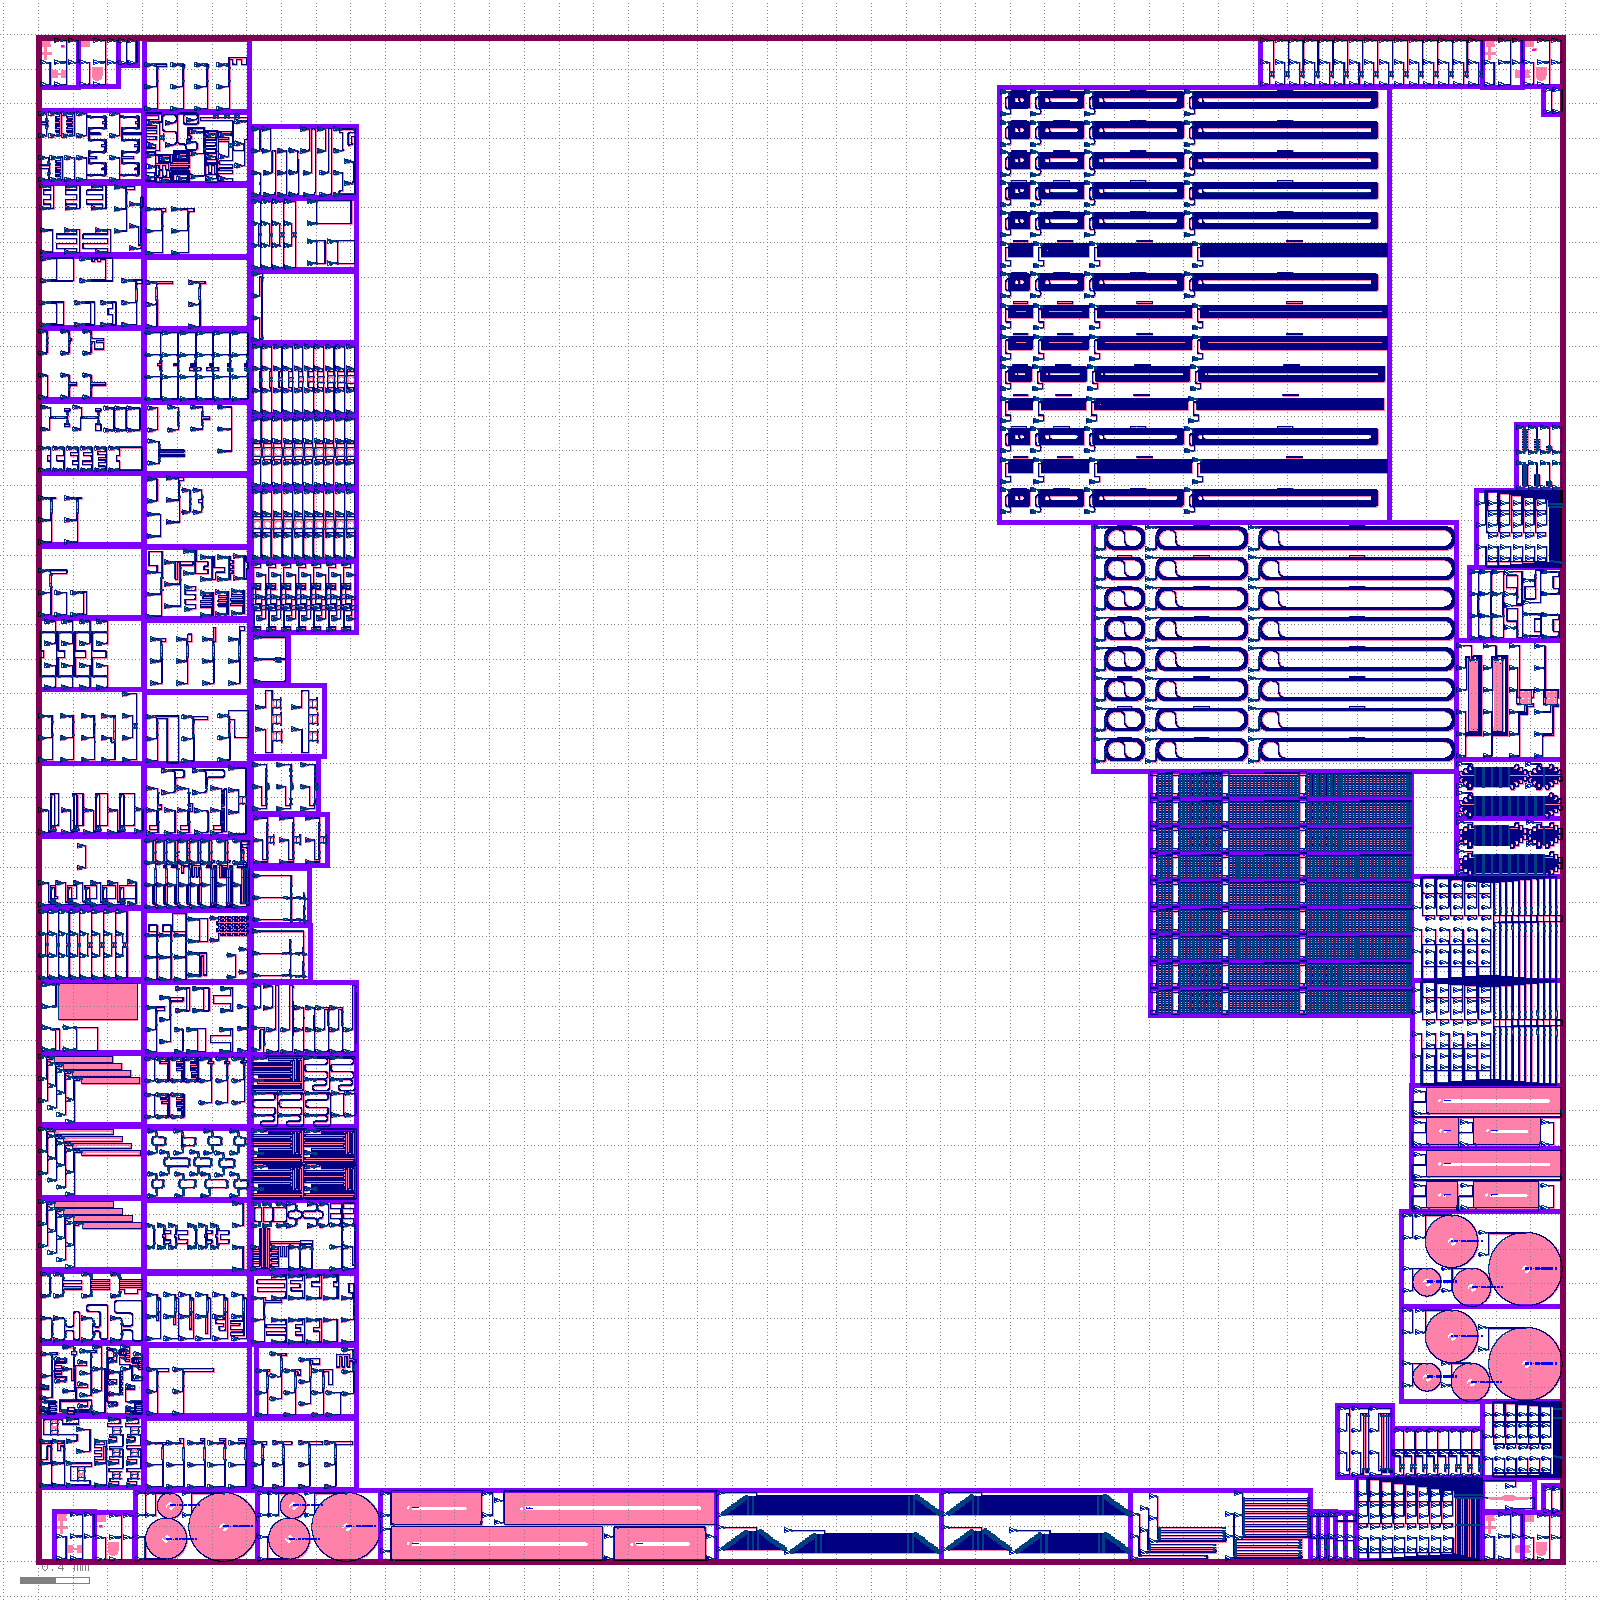
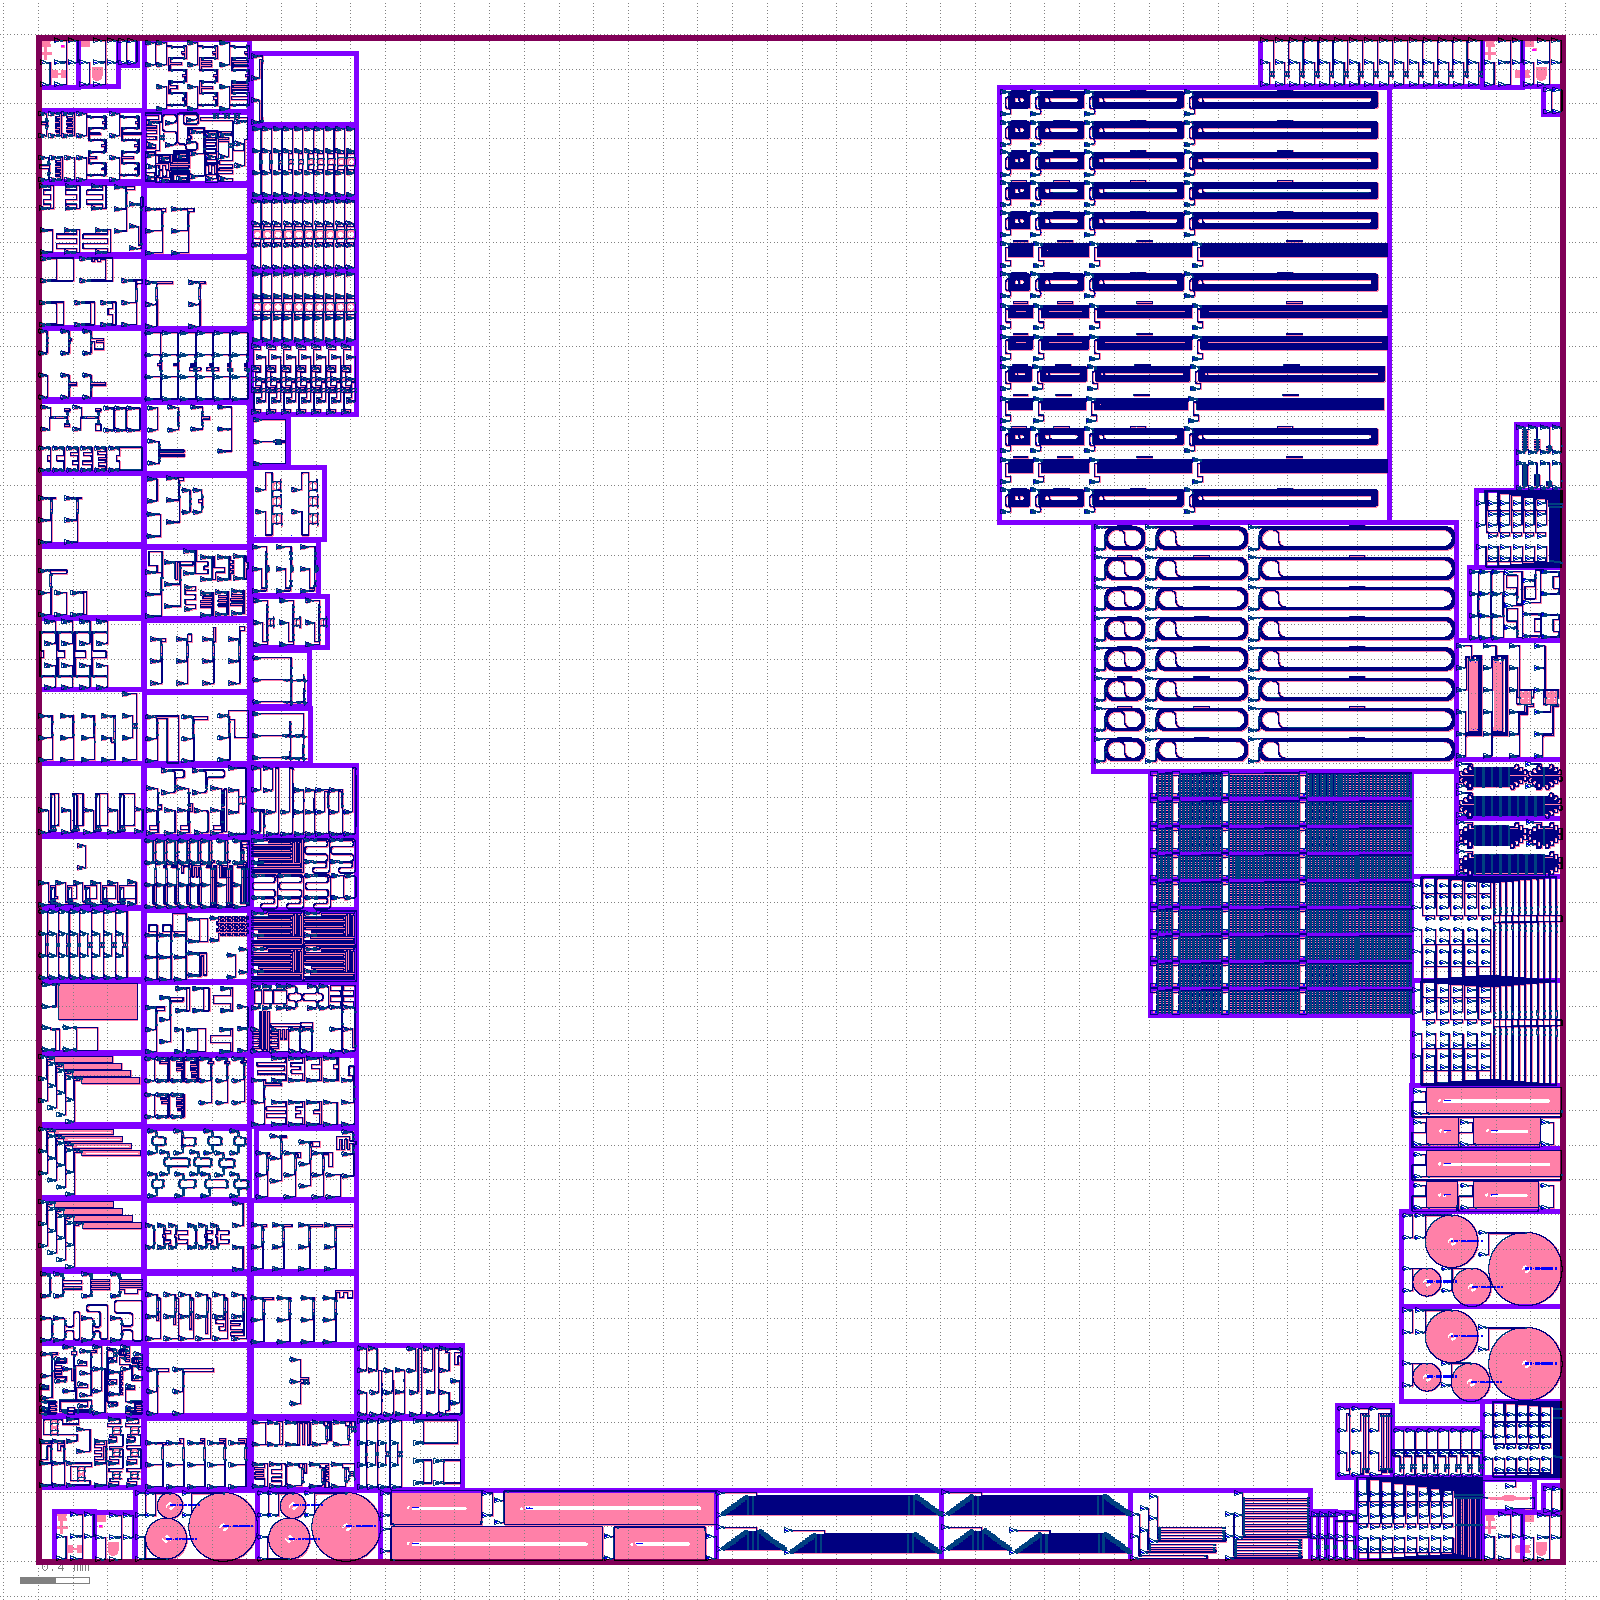
Aggregation layout: https://github.com/SiEPIC/openEBL-2026-05/actions/runs/25690435179/artifacts/6927134600

Changed region(s): [[0.0938, 0.0312, 0.3125, 0.9375], [0.2188, 0.0312, 0.25, 0.0625]]

diff --git a/README.md b/README.md
@@ -91,5 +91,5 @@ Will be added here.
 
 Click on the following link to download the EBeam.oas merged layout file:
 <!-- start-link -->
-https://github.com/SiEPIC/openEBL-2026-05/actions/runs/25689801805/artifacts/6926883134
+https://github.com/SiEPIC/openEBL-2026-05/actions/runs/25690435179/artifacts/6927134600
 <!-- end-link -->